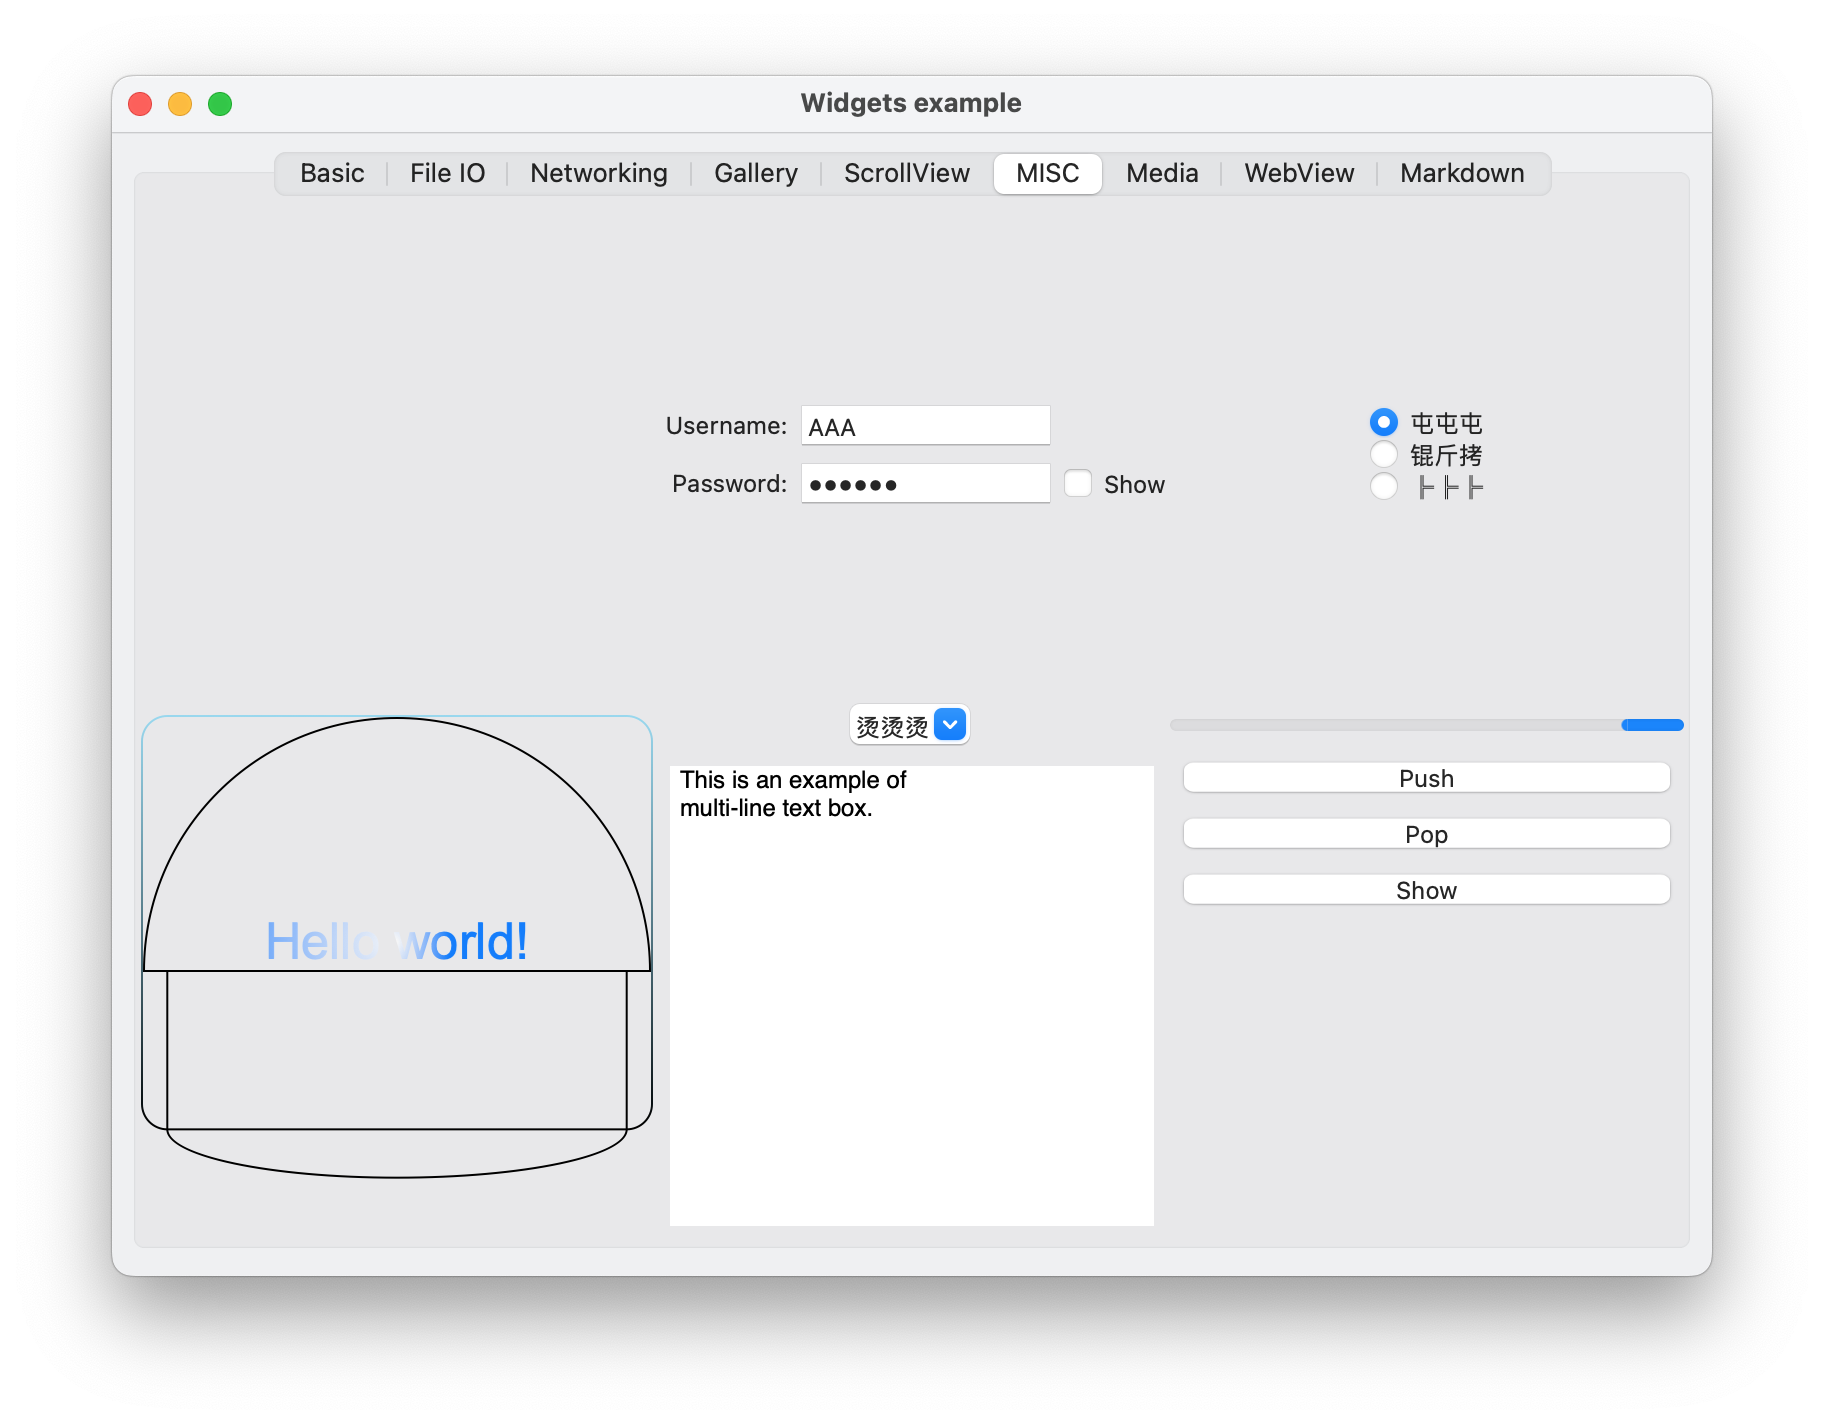
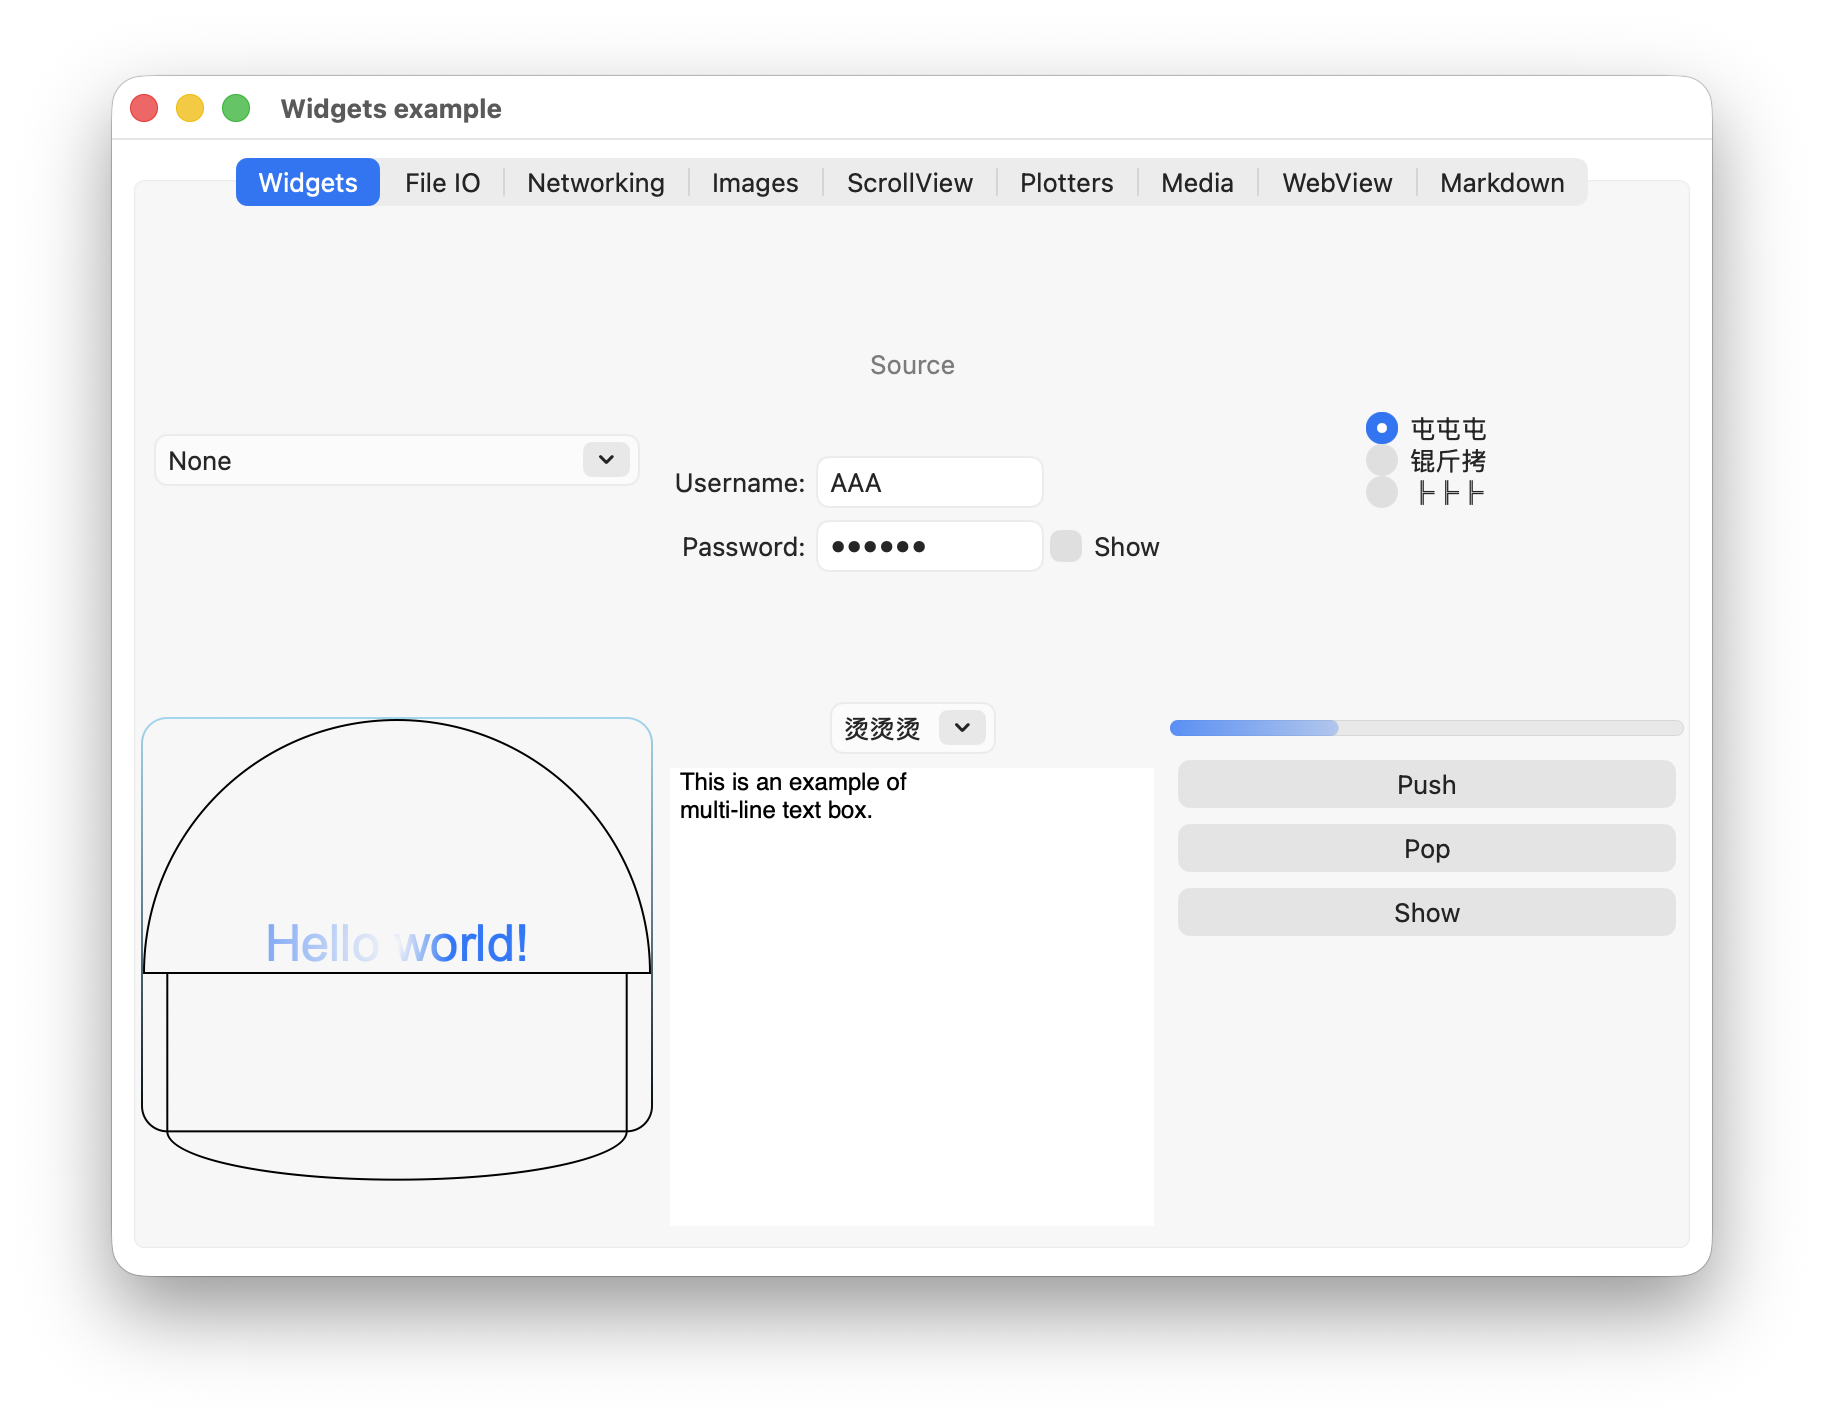
docs: add uikit screenshots

diff --git a/README.md b/README.md
@@ -8,13 +8,14 @@ All IO requests could be issued in the same thread as GUI, without blocking the 
 
 Read the [examples](winio/examples) and learn more!
 
-| Backend | Light                                  | Dark                                 |
-| ------- | -------------------------------------- | ------------------------------------ |
-| Win32   | ![Win32 Light](assets/win32.light.png) | ![Win32 Dark](assets/win32.dark.png) |
-| WinUI 3 | ![WinUI Light](assets/winui.light.png) | ![WinUI Dark](assets/winui.dark.png) |
-| Qt 6    | ![Qt Light](assets/qt.light.png)       | ![Qt Dark](assets/qt.dark.png)       |
-| GTK 4   | ![GTK Light](assets/gtk.light.png)     | ![GTK Dark](assets/gtk.dark.png)     |
-| AppKit  | ![macOS Light](assets/mac.light.png)   | ![macOS Dark](assets/mac.dark.png)   |
+| Backend              | Light                                        | Dark                                       |
+| -------------------- | -------------------------------------------- | ------------------------------------------ |
+| Win32                | ![Win32 Light](assets/win32.light.png)       | ![Win32 Dark](assets/win32.dark.png)       |
+| WinUI 3              | ![WinUI Light](assets/winui.light.png)       | ![WinUI Dark](assets/winui.dark.png)       |
+| Qt 6                 | ![Qt Light](assets/qt.light.png)             | ![Qt Dark](assets/qt.dark.png)             |
+| GTK 4                | ![GTK Light](assets/gtk.light.png)           | ![GTK Dark](assets/gtk.dark.png)           |
+| AppKit               | ![macOS Light](assets/mac.light.png)         | ![macOS Dark](assets/mac.dark.png)         |
+| UIKit (Mac Catalyst) | ![Catalyst Light](assets/catalyst.light.png) | ![Catalyst Dark](assets/catalyst.dark.png) |
 
 ## Quick start
 